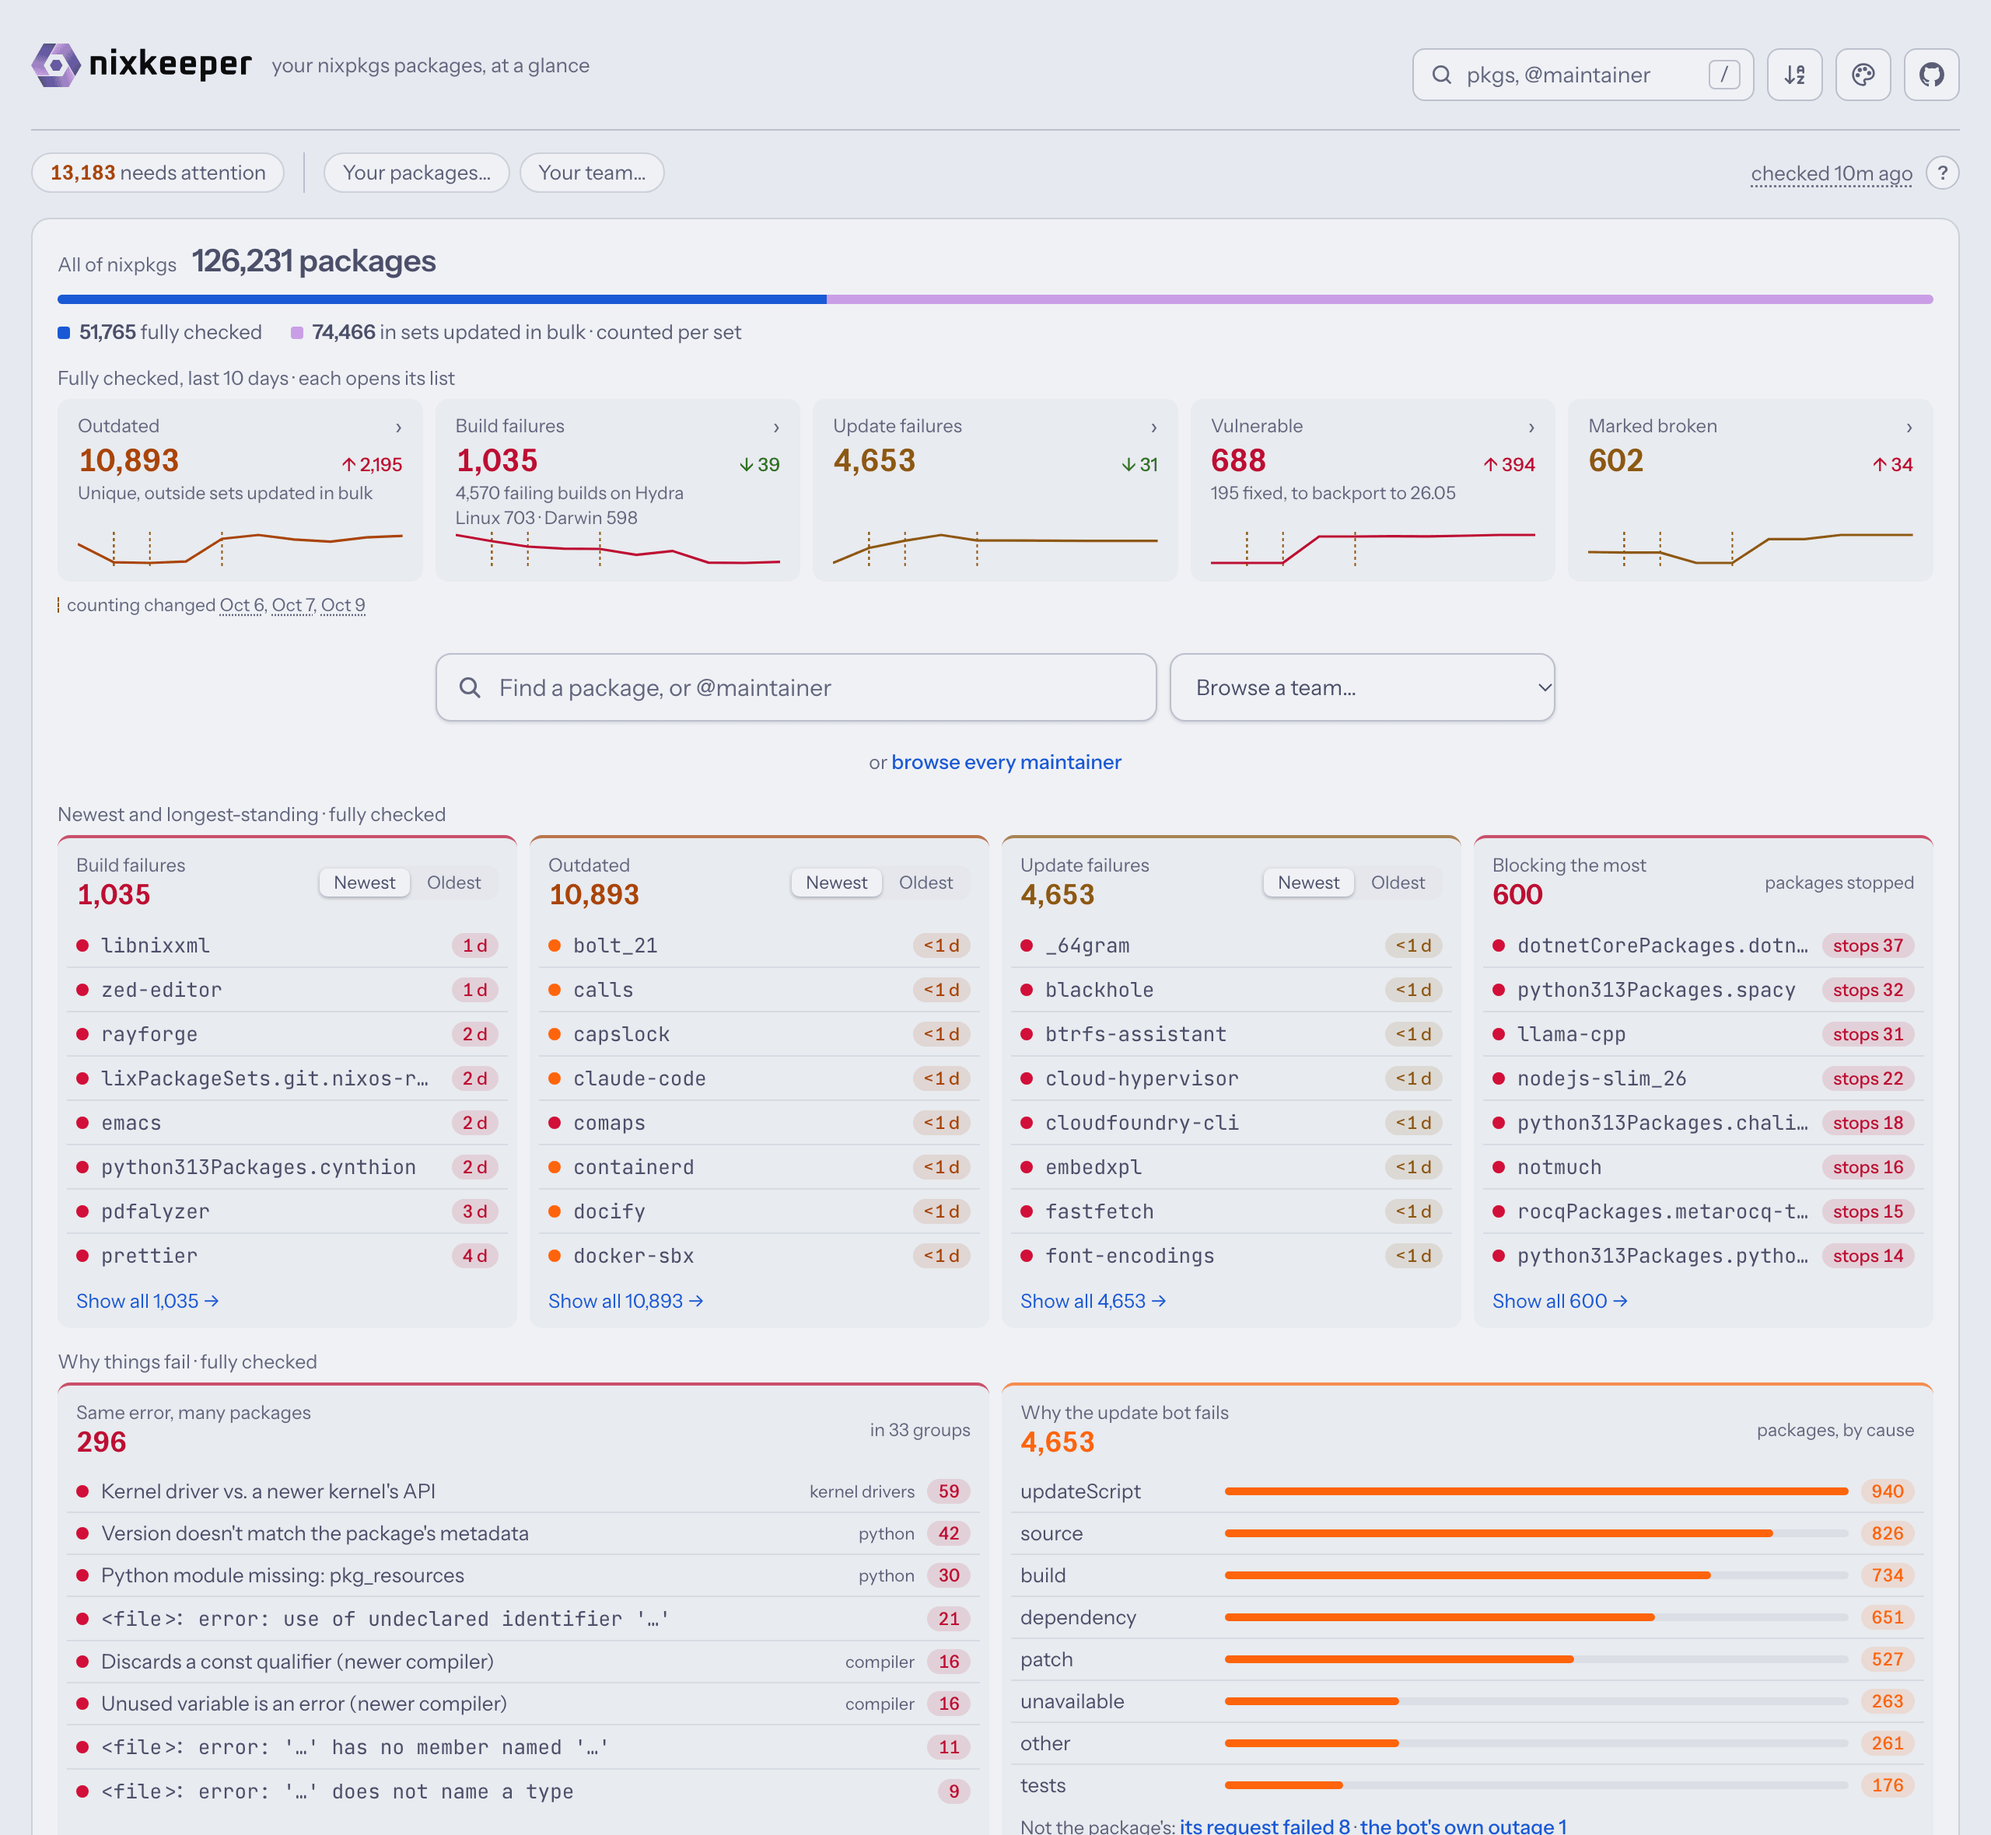
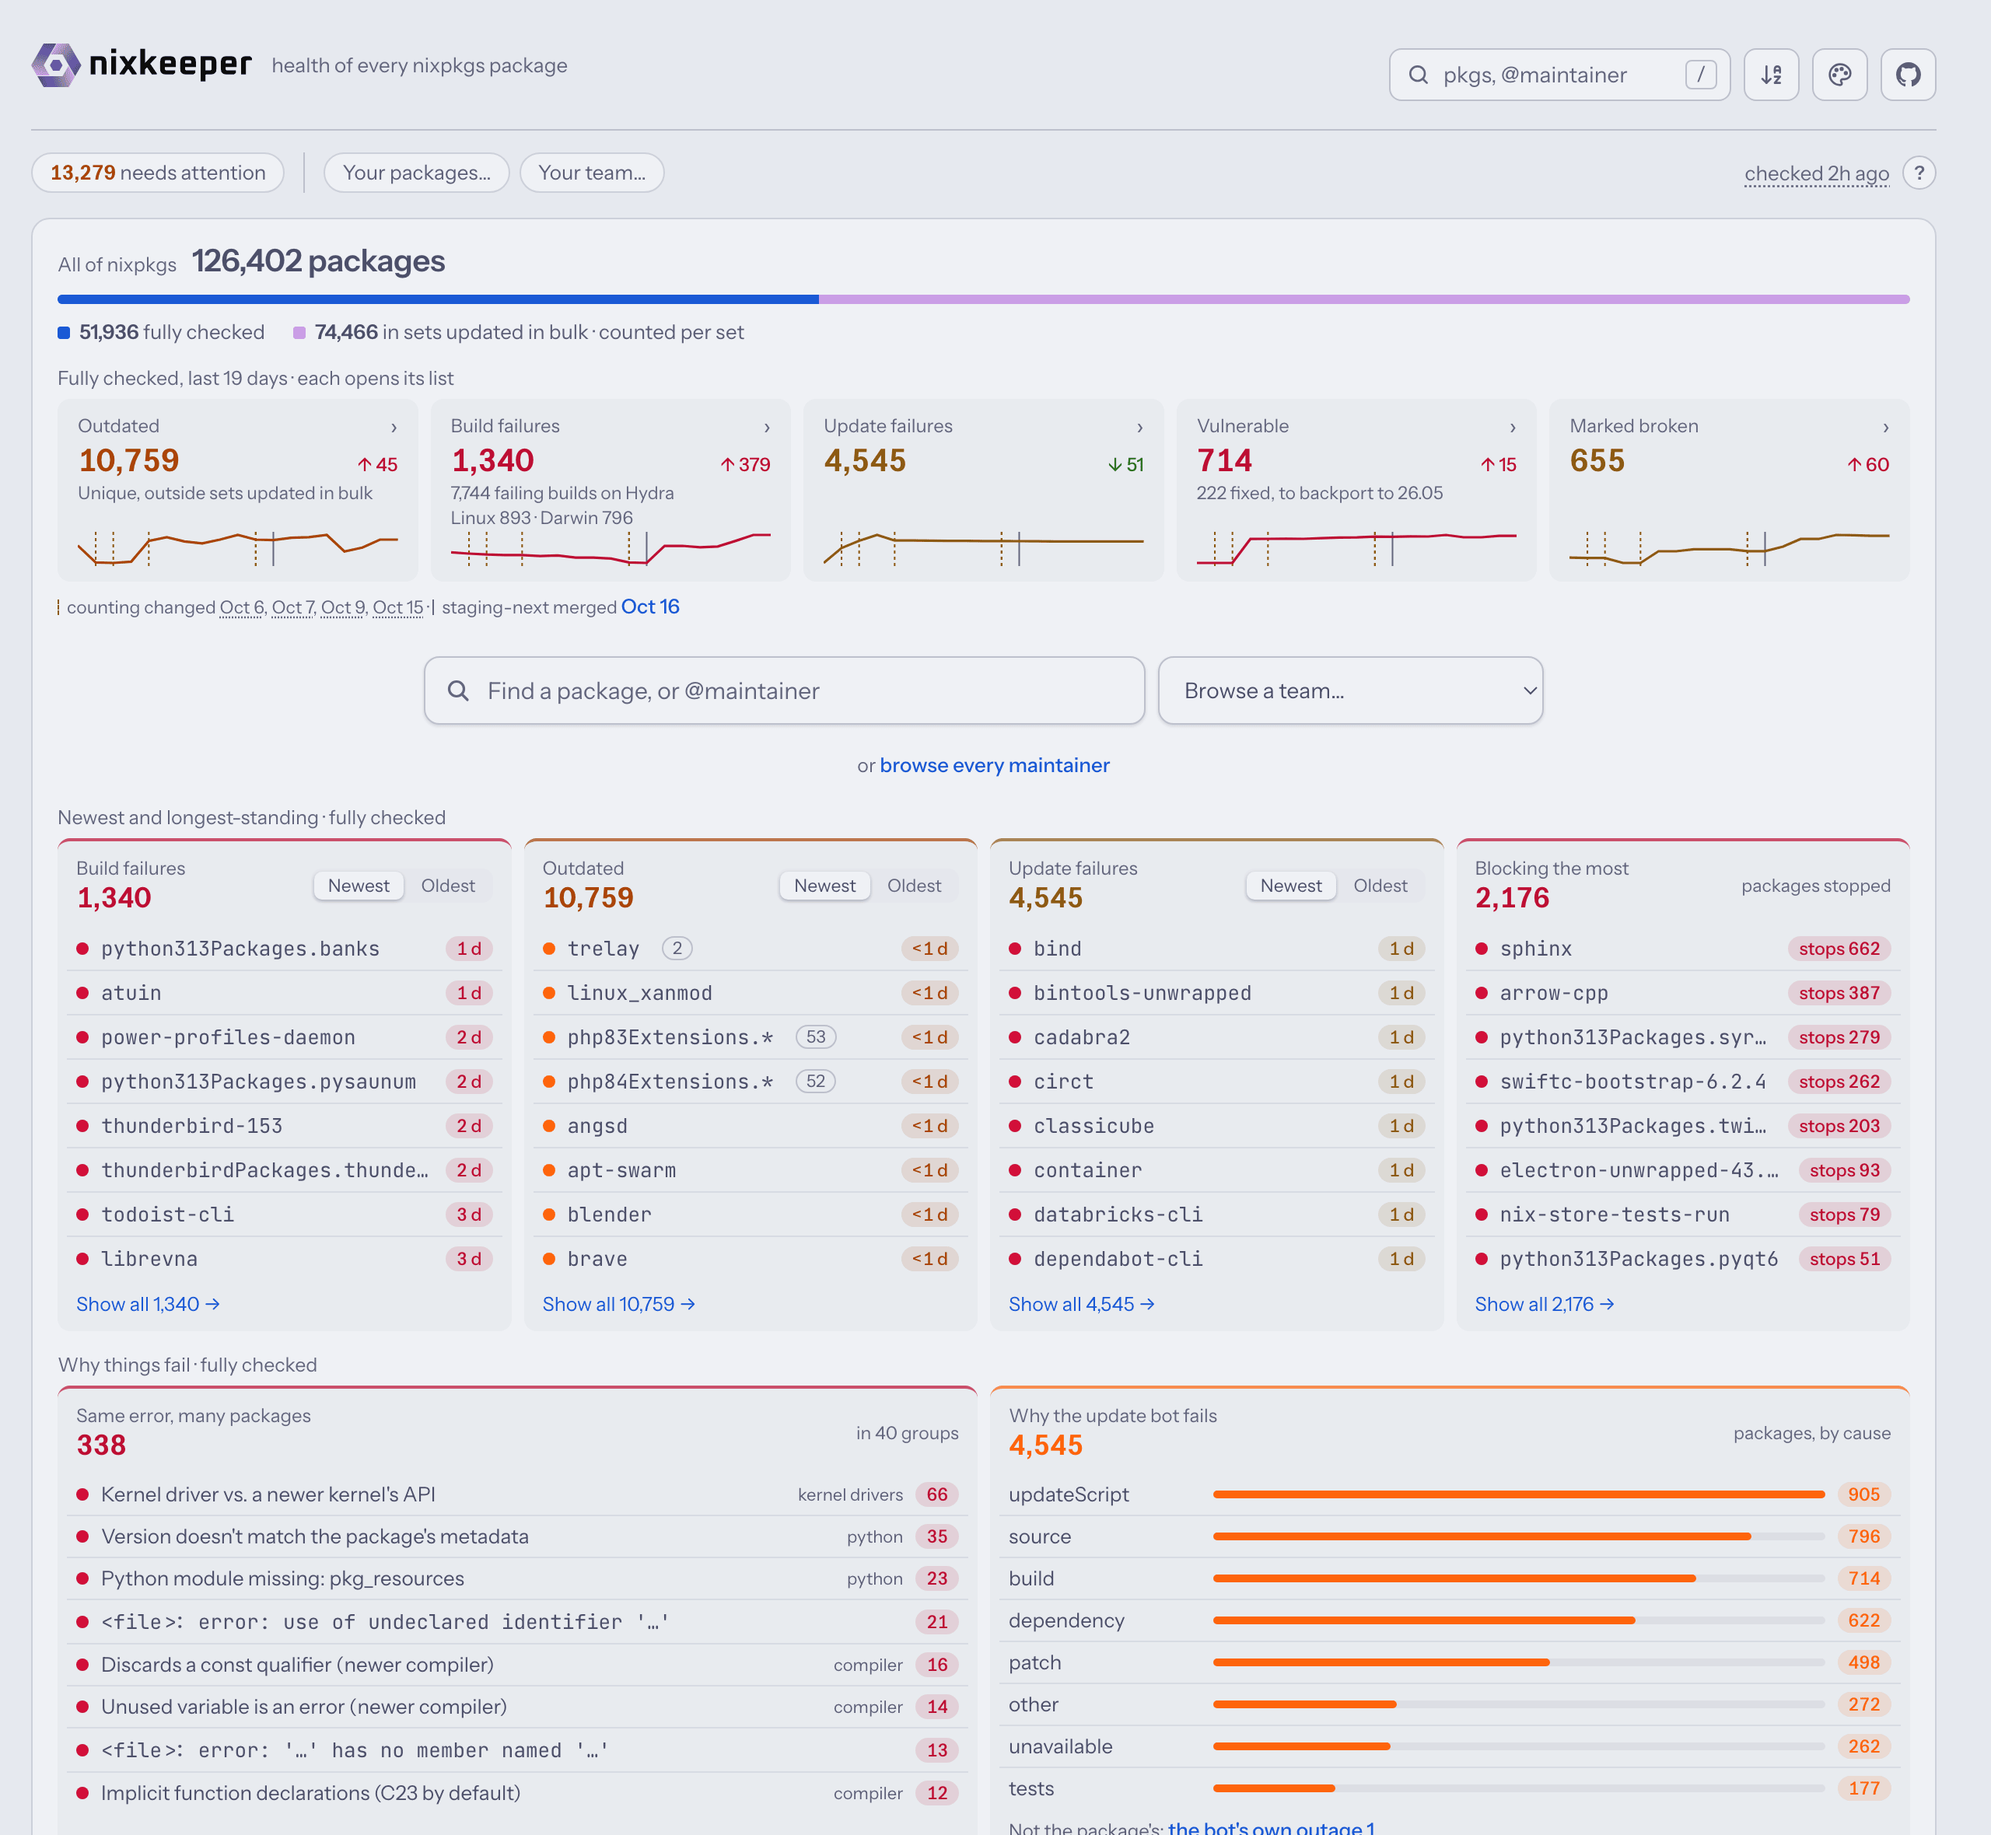
assets: screenshots with the new lines, the overview's social preview (#292)

diff --git a/page/index.html b/page/index.html
@@ -10,7 +10,7 @@
 <meta property="og:type" content="website">
 <meta property="og:title" content="nixkeeper — health of every nixpkgs package">
 <meta property="og:description" content="Health dashboard for every nixpkgs package: new releases, build and update failures, vulnerabilities and open PRs, by maintainer and team">
-<meta property="og:image" content="https://raw.githubusercontent.com/nixkeeper/nixkeeper/main/assets/screenshots/social-preview.png">
+<meta property="og:image" content="https://raw.githubusercontent.com/nixkeeper/nixkeeper/main/assets/screenshots/overview-social-preview.png">
 <meta property="og:image:width" content="2560">
 <meta property="og:image:height" content="1280">
 <meta property="og:image:alt" content="nixkeeper: the logo, what it watches (new releases, build and update failures, vulnerabilities), and the dashboard">

diff --git a/scripts/social-preview.html b/scripts/social-preview.html
@@ -73,7 +73,7 @@ li img { width: 30px; height: auto; }
 <body>
 <div class="text">
   <img class="lockup" src="nixkeeper-lockup-tight-dark.svg" alt="nixkeeper">
-  <h1 id="headline">Health dashboard for the nixpkgs packages you maintain</h1>
+  <h1 id="headline">Health dashboard for your nixpkgs packages</h1>
   <ul>
     <li><img src="favicon-r.svg" alt="">New releases</li>
     <li><img src="favicon-f.svg" alt="">Build and update failures</li>

diff --git a/README.md b/README.md
@@ -5,8 +5,9 @@
 [![Latest release](https://img.shields.io/github/v/release/nixkeeper/nixkeeper)](https://github.com/nixkeeper/nixkeeper/releases/latest)
 [![Dashboard](https://img.shields.io/badge/dashboard-live-8250df)](https://nixkeeper.com/)
 
-Health dashboard for the nixpkgs packages you maintain: new releases, build
-and update failures, and vulnerabilities, in one place.
+Health dashboard for every nixpkgs package: new releases, build and update
+failures, vulnerabilities and open PRs, by maintainer and team. Or, on an
+instance of your own, for your packages.
 
 <p align="center">
   <picture>

diff --git a/CHANGELOG.md b/CHANGELOG.md
@@ -35,6 +35,10 @@ The version lives in `pyproject.toml`; `flake.nix` reads it from there.
   maintainer and team". An instance of its own lists says "health of your
   nixpkgs packages" (set once its data loads; link previews show
   index.html's).
+- Screenshots retaken with the new lines. Link previews of nixkeeper.com
+  and the release notes' card show the overview's social preview
+  ("Health dashboard for every nixpkgs package"); the list's says
+  "Health dashboard for your nixpkgs packages".
 
 ## [0.21.0] - 2026-10-21
 
